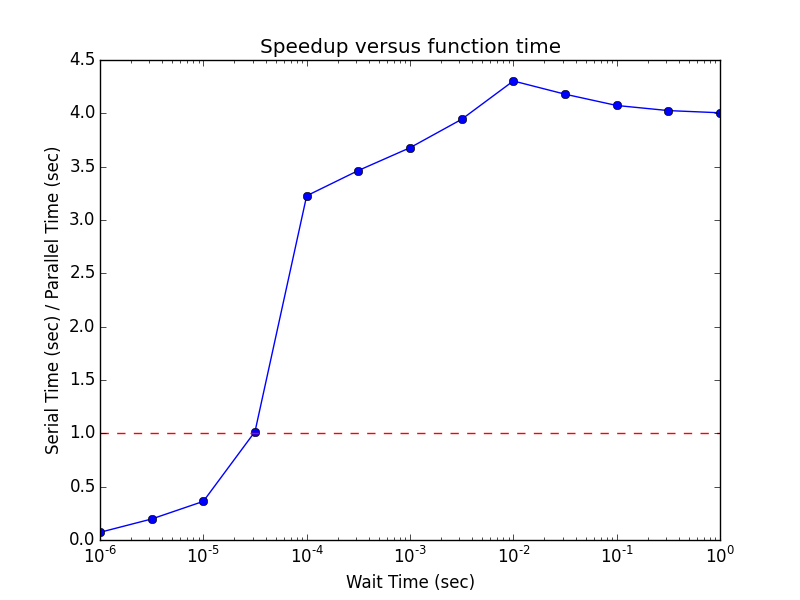
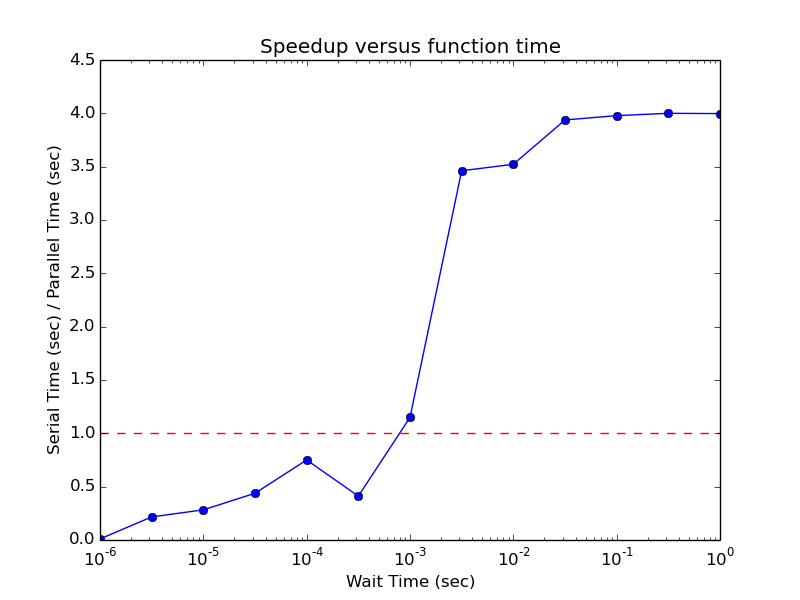
Changed to log ratio in HW0 P6B

diff --git a/HW0/P6/P6B.py b/HW0/P6/P6B.py
@@ -31,7 +31,7 @@ if __name__ == '__main__':
         parallelTime = time.time() - start
 
         # Compute the ratio of these times
-        ratio.append(serialTime/parallelTime)
+        ratio.append(np.exp(np.log(serialTime)-np.log(parallelTime)))
 
     for t, r in zip(wait_time, ratio):
         print 'Wait Time: ' + str(t)
